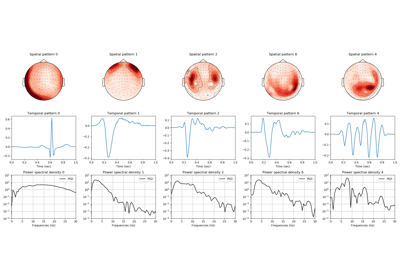
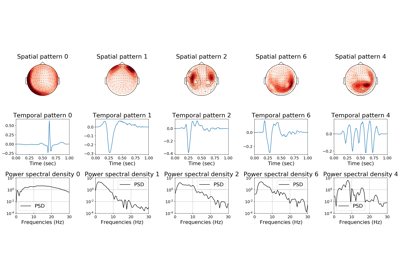
FIX dipole_fit shown for sample example

diff --git a/auto_examples/multicsc/plot_sample_evoked_response.html b/auto_examples/multicsc/plot_sample_evoked_response.html
@@ -230,7 +230,7 @@ which scales down the border of each split with a tukey window.</p>
 <p class="sphx-glr-script-out">Out:</p>
 <div class="sphx-glr-script-out highlight-none notranslate"><div class="highlight"><pre><span></span>................................................
 [GreedyCDL] Converged after 48 iteration, (dz, du) = 7.545e-05, 5.635e-05
-[GreedyCDL] Fit in 1402.1s
+[GreedyCDL] Fit in 1431.8s
 </pre></div>
 </div>
 <p>Then we call the <cite>transform</cite> method, which returns the sparse codes
@@ -421,23 +421,27 @@ atoms.</p>
 </div>
 <p>Plot the dipole fit from the 3rd atom, linked to mu-wave and display the
 goodness of fit.</p>
-<div class="highlight-python notranslate"><div class="highlight"><pre><span></span><span class="kn">from</span> <span class="nn">mpl_toolkits.mplot3d</span> <span class="kn">import</span> <span class="n">Axes3D</span>
+<div class="highlight-python notranslate"><div class="highlight"><pre><span></span><span class="n">atom_dipole_idx</span> <span class="o">=</span> <span class="mi">4</span>
+
+<span class="kn">from</span> <span class="nn">mpl_toolkits.mplot3d</span> <span class="kn">import</span> <span class="n">Axes3D</span>
 
 <span class="n">fig</span> <span class="o">=</span> <span class="n">plt</span><span class="o">.</span><span class="n">figure</span><span class="p">(</span><span class="n">figsize</span><span class="o">=</span><span class="p">(</span><span class="mi">10</span><span class="p">,</span> <span class="mi">4</span><span class="p">))</span>
 
 <span class="c1"># Display the dipole fit</span>
 <span class="n">ax</span> <span class="o">=</span> <span class="n">fig</span><span class="o">.</span><span class="n">add_subplot</span><span class="p">(</span><span class="mi">1</span><span class="p">,</span> <span class="mi">3</span><span class="p">,</span> <span class="mi">1</span><span class="p">,</span> <span class="n">projection</span><span class="o">=</span><span class="s1">&#39;3d&#39;</span><span class="p">)</span>
-<span class="n">dip</span><span class="o">.</span><span class="n">plot_locations</span><span class="p">(</span><span class="n">fname_trans</span><span class="p">,</span> <span class="s1">&#39;sample&#39;</span><span class="p">,</span> <span class="n">subjects_dir</span><span class="p">,</span> <span class="n">idx</span><span class="o">=</span><span class="mi">3</span><span class="p">,</span> <span class="n">ax</span><span class="o">=</span><span class="n">ax</span><span class="p">)</span>
-<span class="n">ax</span><span class="o">.</span><span class="n">set_title</span><span class="p">(</span><span class="s1">&#39;Atom #3 (GOF {:.2f}%)&#39;</span><span class="o">.</span><span class="n">format</span><span class="p">(</span><span class="n">dip</span><span class="o">.</span><span class="n">gof</span><span class="p">[</span><span class="mi">3</span><span class="p">]))</span>
+<span class="n">dip</span><span class="o">.</span><span class="n">plot_locations</span><span class="p">(</span><span class="n">fname_trans</span><span class="p">,</span> <span class="s1">&#39;sample&#39;</span><span class="p">,</span> <span class="n">subjects_dir</span><span class="p">,</span> <span class="n">idx</span><span class="o">=</span><span class="n">atom_dipole_idx</span><span class="p">,</span>
+                   <span class="n">ax</span><span class="o">=</span><span class="n">ax</span><span class="p">)</span>
+<span class="n">ax</span><span class="o">.</span><span class="n">set_title</span><span class="p">(</span><span class="s1">&#39;Atom #{} (GOF {:.2f}%)&#39;</span><span class="o">.</span><span class="n">format</span><span class="p">(</span><span class="n">atom_dipole_idx</span><span class="p">,</span>
+                                             <span class="n">dip</span><span class="o">.</span><span class="n">gof</span><span class="p">[</span><span class="n">atom_dipole_idx</span><span class="p">]))</span>
 
 <span class="c1"># Plot the spatial map</span>
 <span class="n">ax</span> <span class="o">=</span> <span class="n">fig</span><span class="o">.</span><span class="n">add_subplot</span><span class="p">(</span><span class="mi">1</span><span class="p">,</span> <span class="mi">3</span><span class="p">,</span> <span class="mi">2</span><span class="p">)</span>
-<span class="n">mne</span><span class="o">.</span><span class="n">viz</span><span class="o">.</span><span class="n">plot_topomap</span><span class="p">(</span><span class="n">cdl</span><span class="o">.</span><span class="n">u_hat_</span><span class="p">[</span><span class="mi">3</span><span class="p">],</span> <span class="n">info</span><span class="p">,</span> <span class="n">axes</span><span class="o">=</span><span class="n">ax</span><span class="p">)</span>
+<span class="n">mne</span><span class="o">.</span><span class="n">viz</span><span class="o">.</span><span class="n">plot_topomap</span><span class="p">(</span><span class="n">cdl</span><span class="o">.</span><span class="n">u_hat_</span><span class="p">[</span><span class="n">atom_dipole_idx</span><span class="p">],</span> <span class="n">info</span><span class="p">,</span> <span class="n">axes</span><span class="o">=</span><span class="n">ax</span><span class="p">)</span>
 
 <span class="c1"># Plot the temporal atom</span>
 <span class="n">ax</span> <span class="o">=</span> <span class="n">fig</span><span class="o">.</span><span class="n">add_subplot</span><span class="p">(</span><span class="mi">1</span><span class="p">,</span> <span class="mi">3</span><span class="p">,</span> <span class="mi">3</span><span class="p">)</span>
 <span class="n">t</span> <span class="o">=</span> <span class="n">np</span><span class="o">.</span><span class="n">arange</span><span class="p">(</span><span class="n">n_times_atom</span><span class="p">)</span> <span class="o">/</span> <span class="n">sfreq</span>
-<span class="n">ax</span><span class="o">.</span><span class="n">plot</span><span class="p">(</span><span class="n">t</span><span class="p">,</span> <span class="n">cdl</span><span class="o">.</span><span class="n">v_hat_</span><span class="p">[</span><span class="mi">3</span><span class="p">])</span>
+<span class="n">ax</span><span class="o">.</span><span class="n">plot</span><span class="p">(</span><span class="n">t</span><span class="p">,</span> <span class="n">cdl</span><span class="o">.</span><span class="n">v_hat_</span><span class="p">[</span><span class="n">atom_dipole_idx</span><span class="p">])</span>
 <span class="n">ax</span><span class="o">.</span><span class="n">set_xlim</span><span class="p">(</span><span class="mi">0</span><span class="p">,</span> <span class="n">n_times_atom</span> <span class="o">/</span> <span class="n">sfreq</span><span class="p">)</span>
 <span class="n">ax</span><span class="o">.</span><span class="n">set</span><span class="p">(</span><span class="n">xlabel</span><span class="o">=</span><span class="s1">&#39;Time (sec)&#39;</span><span class="p">,</span> <span class="n">title</span><span class="o">=</span><span class="s2">&quot;Temporal pattern 3&quot;</span><span class="p">)</span>
 
@@ -446,7 +450,7 @@ goodness of fit.</p>
 </pre></div>
 </div>
 <img alt="../../_images/sphx_glr_plot_sample_evoked_response_003.png" class="sphx-glr-single-img" src="../../_images/sphx_glr_plot_sample_evoked_response_003.png" />
-<p><strong>Total running time of the script:</strong> ( 26 minutes  34.204 seconds)</p>
+<p><strong>Total running time of the script:</strong> ( 27 minutes  12.704 seconds)</p>
 <div class="sphx-glr-footer class sphx-glr-footer-example docutils container" id="sphx-glr-download-auto-examples-multicsc-plot-sample-evoked-response-py">
 <div class="sphx-glr-download docutils container">
 <a class="reference download internal" download="" href="../../_downloads/a4513965a8295b5e01e3ddda780bda56/plot_sample_evoked_response.py"><code class="xref download docutils literal notranslate"><span class="pre">Download</span> <span class="pre">Python</span> <span class="pre">source</span> <span class="pre">code:</span> <span class="pre">plot_sample_evoked_response.py</span></code></a></div>

diff --git a/_downloads/a4513965a8295b5e01e3ddda780bda56/plot_sample_evoked_response.py b/_downloads/a4513965a8295b5e01e3ddda780bda56/plot_sample_evoked_response.py
@@ -308,23 +308,28 @@ dip = mne.fit_dipole(evoked, fname_cov, fname_bem, fname_trans,
 # Plot the dipole fit from the 3rd atom, linked to mu-wave and display the
 # goodness of fit.
 #
+
+atom_dipole_idx = 4
+
 from mpl_toolkits.mplot3d import Axes3D
 
 fig = plt.figure(figsize=(10, 4))
 
 # Display the dipole fit
 ax = fig.add_subplot(1, 3, 1, projection='3d')
-dip.plot_locations(fname_trans, 'sample', subjects_dir, idx=3, ax=ax)
-ax.set_title('Atom #3 (GOF {:.2f}%)'.format(dip.gof[3]))
+dip.plot_locations(fname_trans, 'sample', subjects_dir, idx=atom_dipole_idx,
+                   ax=ax)
+ax.set_title('Atom #{} (GOF {:.2f}%)'.format(atom_dipole_idx,
+                                             dip.gof[atom_dipole_idx]))
 
 # Plot the spatial map
 ax = fig.add_subplot(1, 3, 2)
-mne.viz.plot_topomap(cdl.u_hat_[3], info, axes=ax)
+mne.viz.plot_topomap(cdl.u_hat_[atom_dipole_idx], info, axes=ax)
 
 # Plot the temporal atom
 ax = fig.add_subplot(1, 3, 3)
 t = np.arange(n_times_atom) / sfreq
-ax.plot(t, cdl.v_hat_[3])
+ax.plot(t, cdl.v_hat_[atom_dipole_idx])
 ax.set_xlim(0, n_times_atom / sfreq)
 ax.set(xlabel='Time (sec)', title="Temporal pattern 3")
 
